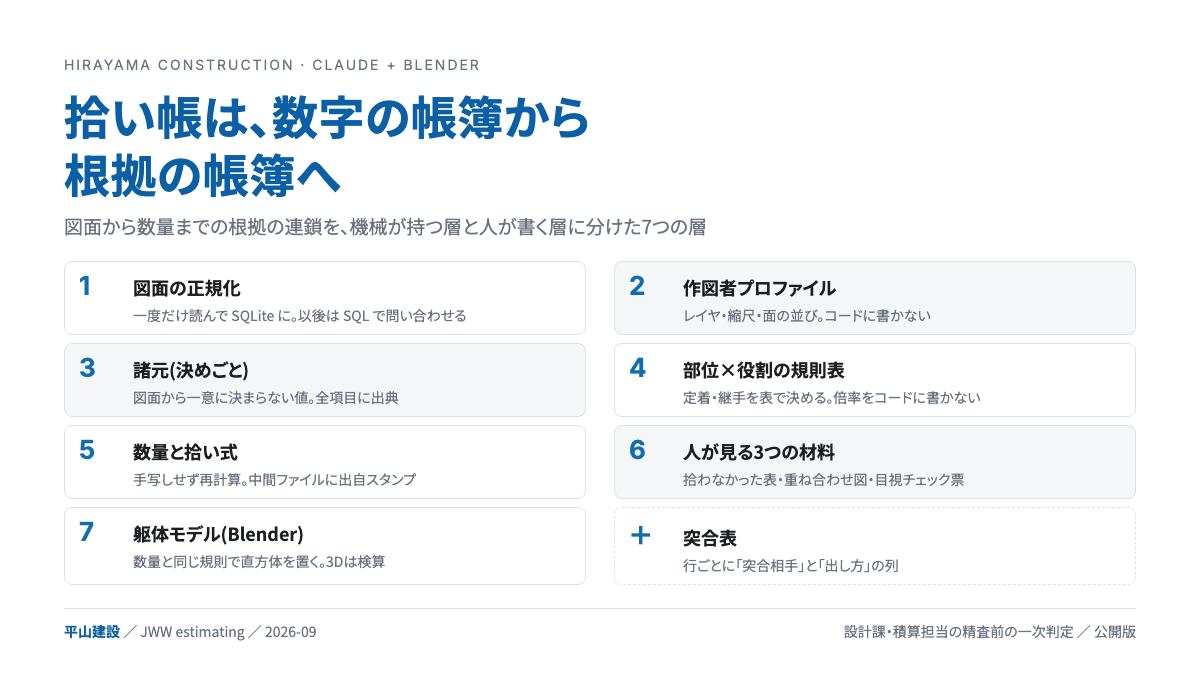
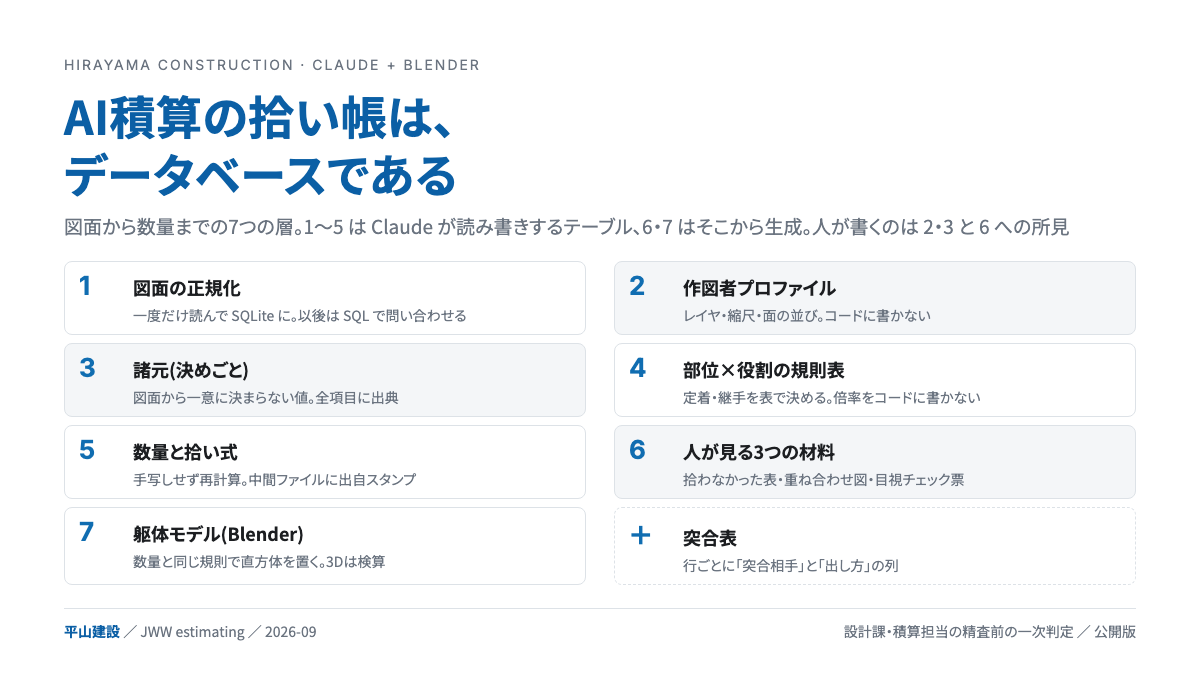
docs(jww-estimating): 拾い帳はデータベースである — DB の定義(4条件)・テーブルは5層・正本と派生物・積算アプリは製品名なし・ラーメンRC鉄筋 第1便・本数109

Changed region(s): [[0.0308, 0.1244, 0.8942, 0.3733]]

diff --git a/docs/jww-estimating/2026-09-hiroicho/index.html b/docs/jww-estimating/2026-09-hiroicho/index.html
@@ -1,5 +1,5 @@
 <!doctype html><html lang="ja"><head><meta charset="utf-8"><meta name="viewport" content="width=device-width,initial-scale=1">
-<title>拾い帳は、数字の帳簿から根拠の帳簿へ ─ Claude と Blender の時代の拾い帳(公開版)</title>
+<title>AI積算の拾い帳は、データベースである ─ 図面から数量までを Claude が読み書きする形にした(公開版)</title>
 <link rel="stylesheet" href="https://fonts.googleapis.com/css2?family=Noto+Sans+JP:wght@400;700&family=Inter:wght@400;700&display=swap">
 <style>
 :root{--brand:#106DB1;--brand-deep:#0B5FA5;--brand-light:#4689CD;--green:#0B9455;--red:#D95A5F;--ink:#1C1E21;--ink-muted:#6B7480;--rule:#DDE2E7;--surface:#FFFFFF;--surface-alt:#F4F6F8;--num:Inter,Arial,Helvetica,sans-serif}
@@ -55,8 +55,8 @@ ol.principles span{color:var(--ink-muted);font-size:14.5px}
 </style></head><body><main>
 
 <p class="eyebrow">Hirayama Construction · JWW estimating · 2026-09</p>
-<h1>拾い帳は、数字の帳簿から根拠の帳簿へ</h1>
-<p class="lead">Claude と Blender の時代の拾い帳。3週間で自社8案件の図面から数量を機械で拾い、7案件を実績と突き合わせた到達点と、そこから見えた「拾い帳はこう変わる」の整理です。公開版(2026-09-29 時点)。</p>
+<h1>AI積算の拾い帳は、データベースである</h1>
+<p class="lead">Excel の拾い帳と並べて、データベースの形で作り直したら、Claude が図面を読み、数量を出し、実績と突き合わせ、拾わなかったものを人に見せるところまで通りました。3週間・自社8案件の到達点と、図面から数量までを AI が読み書きする形(7つの層)の整理です。公開版(2026-09-29 時点)。</p>
 
 <dl class="kpi">
   <div><dt>図面から拾った案件</dt><dd>8<span> 件 ／ うち実績と突合 7</span></dd></div>
@@ -66,9 +66,9 @@ ol.principles span{color:var(--ink-muted);font-size:14.5px}
 </dl>
 <p class="src">差率 = (図面拾い − 実績) ÷ 実績。マイナスは図面拾いが実績より少ないこと。実績は工事精算書・契約内訳・構造事務所の設計数量が混ざります。新築RC造で、文字と線が座標付きで生きている図面(JWW・ベクタPDF)がある場合の値です。</p>
 
-<h2><span class="num">01</span>いまの拾い帳は、よくできている。だから足りないものがはっきりする</h2>
+<h2><span class="num">01</span>いまの拾い帳は、よくできている。足りないのは AI が読み書きする入口</h2>
 <p>当社の拾い帳は Excel の汎用シートです。14階まで対応し、打設階ごとの行に「部位 × 符号 × 寸法 × 本数」を人が図面を見て打つ。コンクリート・型枠・鉄筋が1枚から出て、見積依頼書の数量はすべてこの1枚に戻れる。<strong>根拠が1枚にあることが、この帳簿の価値です。</strong>無いのは根拠の出所です。どの図面のどの版から、誰のどの決めごとで、その行が出たのかが残りません。</p>
-<p>3週間、同じ図面をプログラムで拾い、この帳簿や構造事務所の集計表と突き合わせて分かったのは、足りないのは精度ではなく次の4つだということでした。</p>
+<p>積算専用のアプリケーションも多くあり、拾い・集計・内訳書までよくできています。それらも当社の Excel と同じく<strong>人が図面を読んで打つ前提</strong>の道具で、AI が読み書きする入口(形の決まったスキーマ、テキストで版管理できる形、行ごとの出典)を前提には作られていない、というのが当社が触った範囲での実感です。3週間、同じ図面をプログラムで拾って突き合わせて分かった「当社の拾い帳に足りないもの」は次の4つで、どれも精度ではありません。</p>
 <div class="grid2">
   <div class="card"><h4>図面を見て打つ</h4><ul><li>同じ図面を、拾うたびに読み直す</li><li>作図者が変わると縮尺・レイヤの割当・面の並びが変わる。5系統で1つも一致しなかった</li></ul></div>
   <div class="card"><h4>決めごとが暗黙</h4><ul><li>端部補強筋の1本の長さ、受筋の兼用、壁梁の内法。構造図のリストと伏図だけからは一意に決まらず、標準配筋図と積算の決めごとが要る値が、拾う人の中にある</li><li>差の原因を推測すると外れる。5つ立てた仮説のうち4つが積算担当の回答で否定された</li></ul></div>
@@ -76,16 +76,16 @@ ol.principles span{color:var(--ink-muted);font-size:14.5px}
   <div class="card"><h4>拾わなかったものが見えない</h4><ul><li>合計が合っていてもモデルは正しいとは限らない。フィルタが黙って捨てた壁237本は差率に出ない</li><li>径別の合計は部位間で打ち消し合う</li></ul></div>
 </div>
 
-<h2><span class="num">02</span>2026年の拾い帳 ─ 7つの層</h2>
-<p>拾い帳を「数量の表」ではなく「<strong>図面から数量までの根拠の連鎖</strong>」として持ち直しました。機械が持つ層と、人が書く層を分けています。</p>
+<h2><span class="num">02</span>2026年の拾い帳 ─ 7つの層、うち5つがテーブル</h2>
+<p>拾い帳を「数量の表」ではなく「<strong>図面から数量までの根拠の連鎖</strong>」として持ち直しました。1〜5 の層は SQLite と JSON のテーブルで、Claude が読み書きします。6(人が見る材料)と 7(モデル)はそこから生成されます。人が書くのは 2・3 と、6 への所見だけです。正本(原図・プロファイル・諸元・規則表・数量の JSON)は git で版管理し、SQLite と .blend は正本から作り直せる派生物として追跡しません。</p>
 <div class="layers">
-  <div class="layer"><span class="no">1</span><span class="name">図面の正規化</span><span class="what">JWW・ベクタPDF・ST-Bridge を一度だけ読んで SQLite に入れる。以後は図面を開かず SQL で問い合わせる。sha が変われば取り直す</span><span class="who">機械</span></div>
-  <div class="layer human"><span class="no">2</span><span class="name">作図者プロファイル</span><span class="what">レイヤの役割・縮尺・面の並びを JSON に。コードに書かない。「なぜその値か」を注に残す</span><span class="who">人(初見の作図者ごとに1本)</span></div>
-  <div class="layer human"><span class="no">3</span><span class="name">諸元(決めごと)</span><span class="what">階高・SL・Fc・床面積・基礎・杭と、リストと伏図だけでは決まらない決めごと(標準配筋図・積算の慣行)。全項目に出典。既定は「図面どおり」</span><span class="who">人</span></div>
-  <div class="layer"><span class="no">4</span><span class="name">部位×役割の規則表</span><span class="what">鉄筋の素の長さ・定着・継手を「部位 × 役割」で決める。倍率をコードに書かない。素の長さはコンクリートの設計寸法</span><span class="who">機械(表は人が育てる)</span></div>
-  <div class="layer"><span class="no">5</span><span class="name">数量と拾い式</span><span class="what">断面辞書・部材配置・数量を JSON で。突合表の値は手写しせず「拾い式」で再計算する。中間ファイルに出自スタンプ</span><span class="who">機械</span></div>
-  <div class="layer human"><span class="no">6</span><span class="name">人が見る3つの材料</span><span class="what">拾わなかった表(図面にあって数量に入れなかったもの)・重ね合わせ図(軸組図・伏図 × モデル)・目視チェック票</span><span class="who">人(設計課・積算担当)</span></div>
-  <div class="layer"><span class="no">7</span><span class="name">躯体モデル(Blender)</span><span class="what">数量と同じ規則で直方体を置く。3Dは絵ではなく検算。そのまま施工段階4D・IFC へ</span><span class="who">機械</span></div>
+  <div class="layer"><span class="no">1</span><span class="name">図面の正規化</span><span class="what">SQLite ／ JWW・ベクタPDF・ST-Bridge を一度だけ読んで SQLite に入れる。以後は図面を開かず SQL で問い合わせる。sha が変われば取り直す</span><span class="who">機械</span></div>
+  <div class="layer human"><span class="no">2</span><span class="name">作図者プロファイル</span><span class="what">JSON ／ レイヤの役割・縮尺・面の並びを JSON に。コードに書かない。「なぜその値か」を注に残す</span><span class="who">人(初見の作図者ごとに1本)</span></div>
+  <div class="layer human"><span class="no">3</span><span class="name">諸元(決めごと)</span><span class="what">JSON ／ 階高・SL・Fc・床面積・基礎・杭と、リストと伏図だけでは決まらない決めごと(標準配筋図・積算の慣行)。全項目に出典。既定は「図面どおり」</span><span class="who">人</span></div>
+  <div class="layer"><span class="no">4</span><span class="name">部位×役割の規則表</span><span class="what">表(手順書と同じものを実行形で) ／ 鉄筋の素の長さ・定着・継手を「部位 × 役割」で決める。倍率をコードに書かない。素の長さはコンクリートの設計寸法</span><span class="who">機械(表は人が育てる)</span></div>
+  <div class="layer"><span class="no">5</span><span class="name">数量と拾い式</span><span class="what">JSON ／ 断面辞書・部材配置・数量を JSON で。突合表の値は手写しせず「拾い式」で再計算する。中間ファイルに出自スタンプ</span><span class="who">機械</span></div>
+  <div class="layer human"><span class="no">6</span><span class="name">人が見る3つの材料</span><span class="what">Markdown・図・A3の紙 ／ 拾わなかった表(図面にあって数量に入れなかったもの)・重ね合わせ図(軸組図・伏図 × モデル)・目視チェック票</span><span class="who">人(設計課・積算担当)</span></div>
+  <div class="layer"><span class="no">7</span><span class="name">躯体モデル(Blender)</span><span class="what">.blend・IFC ／ 数量と同じ規則で直方体を置く。3Dは絵ではなく検算。そのまま施工段階4D・IFC へ</span><span class="who">機械</span></div>
 </div>
 <p class="src">突合表は行ごとに「突合相手」(工事精算書・型枠見積依頼書・構造事務所の設計数量…)と「出し方」(機械抽出・図面から算出・目視・逆算・配分)の列を持ち、図面から出た値か実績から逆算した値かが必ず分かるようにしています。</p>
 
@@ -113,7 +113,16 @@ ol.principles span{color:var(--ink-muted);font-size:14.5px}
 <figcaption>図面から検算までの1本の流れ。途中の結果はすべてファイルに落ちるので、どの段階からでもやり直せる</figcaption>
 </figure>
 
-<h2><span class="num">03</span>5つの原則</h2>
+<h2><span class="num">03</span>なぜデータベースか ─ Claude にとっての拾い帳</h2>
+<p>ここでいうデータベースは製品の名前ではなく、置き方の条件です。<strong>(1) 形が決まっている(スキーマ)、(2) 問い合わせで引ける、(3) 行ごとに出典がある、(4) 版がある。</strong>この4つを満たせば SQLite でも JSON でも表で、満たさなければ Excel の1枚もただのファイルです。派生物(SQLite・.blend)を捨てても正本から作り直せるのは、正本がこの形で置かれている証拠です。</p>
+<div class="grid2">
+  <div class="card"><h4>読める</h4><ul><li>図面は一度だけ SQLite に入り、以後は SQL で問い合わせる。Claude は図面を開かない</li><li>諸元・規則・数量が JSON なので、どの値がどこから来たかを辿れる</li></ul></div>
+  <div class="card"><h4>書ける</h4><ul><li>数量・突合表・拾わなかった表は生成物。人が書くのはプロファイルと諸元だけ</li><li>突合表の値は手写しせず「拾い式」で再計算する。手写しは古くなる</li></ul></div>
+  <div class="card"><h4>直せる</h4><ul><li>規則は部位×役割の表。表を直せば次の案件から効く</li><li>すべて git で版管理され、出自スタンプが「誰が・何から・いつ」を刻む</li></ul></div>
+  <div class="card"><h4>疑える</h4><ul><li>拾わなかった表と3Dの重ね合わせを人が見る。合っているかではなく、無いものは何かを問う</li><li>差率ではなく「行の状態」(拾えて合った／差が大きい／確かめられない／未算出)で到達度を測る</li></ul></div>
+</div>
+
+<h2><span class="num">04</span>5つの原則</h2>
 <ol class="principles">
   <li><div><b>図面は一度だけ読む</b><span>読み直すたびに縮尺や登録を考え直すのが事故のもとだった。正規化して SQL で引く。正本は原図、DB は派生物</span></div></li>
   <li><div><b>形状は機械、決めごとは人</b><span>形状は図面から一意に取れる。定着の取り方や受筋の兼用は取れない。人が書く値は1つの JSON に集め、全項目に出典を付ける</span></div></li>
@@ -122,7 +131,7 @@ ol.principles span{color:var(--ink-muted);font-size:14.5px}
   <li><div><b>人が見るのは拾った表ではなく、拾わなかった表</b><span>合計は打ち消し合う。図面にあって数量に入れなかったものを並べ、3Dモデルを図面に重ね、設計と積算が同じ紙を見る</span></div></li>
 </ol>
 
-<h2><span class="num">04</span>Blender の役割 ─ 3Dは絵ではなく検算</h2>
+<h2><span class="num">05</span>Blender の役割 ─ 3Dは絵ではなく検算</h2>
 <p>数量を出す関数と同じ規則で、壁・床板・基礎梁・フーチング・パラペットを直方体として置きます。そのモデルを軸組図・立面・断面・伏図に重ねると、数量の表を見ていても気づけない欠落が見えます。壁だけ原点を引き忘れて建物の外へ飛び散っていた、屋上パラペットが丸ごと無かった、階の割当から漏れた壁が237本あった。どれも合計の差率には出ませんでした。</p>
 <div class="grid2">
   <figure><img src="../2026-09-sachimachi/img/02-bird.jpg" alt="躯体モデルの鳥瞰"><figcaption>数量と同じ規則で置いた直方体(壁式RC 5階の例)</figcaption></figure>
@@ -130,7 +139,7 @@ ol.principles span{color:var(--ink-muted);font-size:14.5px}
 </div>
 <p>同じ .blend から、段階別4D(仮設物込みのアニメーション、ターンテーブル、工程表に尺を合わせた説明動画)と IFC(躯体の直方体のみ)へ書き出せます。4D まで実走したのはまだ1案件です。<strong>拾い帳の一番下の層が3Dモデルになれば、積算と施工計画が同じ根拠を共有できます。</strong></p>
 
-<h2><span class="num">05</span>どれだけ合ったか</h2>
+<h2><span class="num">06</span>どれだけ合ったか</h2>
 <table>
 <caption>図面拾いと実績数量の差 ／ 単位：% ／ 2026-09-27 時点の値 ／ マイナスは図面拾いが実績より少ない ／ 出典: 社内の突合表</caption>
 <thead><tr><th>案件</th><th>入口</th><th>突合相手</th><th class="n">コンクリート</th><th class="n">型枠</th><th class="n">鉄筋</th></tr></thead>
@@ -141,18 +150,18 @@ ol.principles span{color:var(--ink-muted);font-size:14.5px}
 <tr><td>壁式RC 4階・約2,300 ㎡(船橋市)</td><td>構造図JWW</td><td>構造事務所の設計数量</td><td class="n ok">−7.2</td><td class="n ok">−1.4</td><td class="n ok">−7.4</td></tr>
 <tr><td>壁式RC 4階・約2,000 ㎡(船橋市)</td><td>構造図PDFのみ(実績を見ずに拾った)</td><td>積算ソフトの集計表(鉄筋のみ)</td><td class="n na">—</td><td class="n na">—</td><td class="n ok">−6.0</td></tr>
 <tr><td>壁式RC 3階・約500 ㎡(成田市)</td><td>構造図PDF(目視転記)</td><td>契約内訳(全工種)</td><td class="n ok">−3.9</td><td class="n warn">定義差</td><td class="n mid">−8.5<br><span class="na" style="font-weight:400;font-size:12px">参考値(段が違う)</span></td></tr>
-<tr><td>ラーメンRC 6階・約1,500 ㎡(足立区)</td><td>構造図JWW</td><td>契約数量</td><td class="n warn">−12.5</td><td class="n mid">−9.6</td><td class="n na">未算出</td></tr>
+<tr><td>ラーメンRC 6階・約1,500 ㎡(足立区)</td><td>構造図JWW</td><td>契約数量</td><td class="n warn">−12.5</td><td class="n mid">−9.6</td><td class="n mid">−17.8<br><span class="na" style="font-weight:400;font-size:12px">第1便(09-28)・要精査</span></td></tr>
 </tbody></table>
-<p class="src">鉄筋は「定着・継手込み、材料ロス前」の段で部位×径に並べた計(目視転記の案件のみ加工組立の対象数量比で段が違うため参考値)。青は ±10% 以内(概算・予算枠の用途での線)、太字は閾値の近くで要精査。コンクリート・型枠も初見は −0.8〜−11.3% で、積算担当の回答と図面の再読で直した後の値です。前の記事で公開済みの案件を含みます。型枠の「定義差」は実績側にスラブ小口・開口見込・雑型枠が含まれる差で、基礎を同じ拾い方にそろえると −2.4%。ラーメンRCのコンクリートは腰壁・垂れ壁など未計上部位の積み上げで差の6割が説明でき、残り約5%は未特定。鉄筋は3週間前の −12〜−29% から、率で埋めずに部位ごとに直した値です。</p>
+<p class="src">鉄筋は「定着・継手込み、材料ロス前」の段で部位×径に並べた計(目視転記の案件のみ加工組立の対象数量比で段が違うため参考値)。青は ±10% 以内(概算・予算枠の用途での線)、太字は閾値の近くで要精査。コンクリート・型枠も初見は −0.8〜−11.3% で、積算担当の回答と図面の再読で直した後の値です。前の記事で公開済みの案件を含みます。型枠の「定義差」は実績側にスラブ小口・開口見込・雑型枠が含まれる差で、基礎を同じ拾い方にそろえると −2.4%。ラーメンRCのコンクリートは腰壁・垂れ壁など未計上部位の積み上げで差の6割が説明でき、残り約5%は未特定。ラーメンRCの鉄筋は 09-28 の第1便で、基礎・階段・雑が未計上のまま(表の他の値は 09-27 時点)。鉄筋は3週間前の −12〜−29% から、率で埋めずに部位ごとに直した値です。</p>
 
 <div class="key">
   <p><strong>鉄筋は「部位×径」で見ないと直す場所が分かりません。</strong>内訳書の合計と −7.8% で合って見えていた案件を、実績側を同じ段(ロス前・部位別)にそろえ直して部位×径に分けると −12.3% で、基礎 −77%・壁 −22% のマスがありました。部位ごとに直して −6.3%、±5% 以内のマスは 2 → 7 に増えました。合計だけを見ていたら直す場所は分からなかったはずです。</p>
 </div>
 
-<h2><span class="num">06</span>道具立て</h2>
+<h2><span class="num">07</span>道具立て</h2>
 <dl class="kpi">
   <div><dt>手順書</dt><dd>12<span> 本 ／ 約 9,000 行</span></dd></div>
-  <div><dt>スクリプト(Python)</dt><dd>116<span> 本 ／ 約 34,000 行</span></dd></div>
+  <div><dt>スクリプト(Python)</dt><dd>109<span> 本 ／ 約 32,000 行(使わなくなった6本は退役)</span></dd></div>
   <div><dt>作図者プロファイル</dt><dd>5<span> 本</span></dd></div>
   <div><dt>積算担当への問い</dt><dd>29<span> 問 未決</span></dd></div>
 </dl>
@@ -162,20 +171,20 @@ ol.principles span{color:var(--ink-muted);font-size:14.5px}
 <tbody>
 <tr><td>0 素性・正規化</td><td class="n">7</td><td>図面を一度だけ読んで SQL で問い合わせる。作図者ごとの癖はここで吸収</td></tr>
 <tr><td>1 抽出(構造図・意匠図)</td><td class="n">21</td><td>リスト図の表 → 断面辞書、伏図の符号と線 → 部材配置、建具表・室・文字の数</td></tr>
-<tr><td>2 数量</td><td class="n">22</td><td>コン・型枠・鉄筋(規則は部位×役割の表)、仮設・仕上・外構</td></tr>
-<tr><td>3 突合</td><td class="n">19</td><td>実績(正解データ)を読み、段と部位を揃えて並べる</td></tr>
+<tr><td>2 数量</td><td class="n">21</td><td>コン・型枠・鉄筋(規則は部位×役割の表)、仮設・仕上・外構</td></tr>
+<tr><td>3 突合</td><td class="n">16</td><td>実績(正解データ)を読み、段と部位を揃えて並べる</td></tr>
 <tr><td>4 検算(人が見る材料)</td><td class="n">9</td><td>拾わなかった表・重ね合わせ図・チェック図・目視チェック票</td></tr>
-<tr><td>5 モデル(Blender)</td><td class="n">17</td><td>数量と同じ規則で躯体を立てる。IFC・OBJ・DXF の受け渡し</td></tr>
+<tr><td>5 モデル(Blender)</td><td class="n">16</td><td>数量と同じ規則で躯体を立てる。IFC・OBJ・DXF の受け渡し</td></tr>
 <tr><td>6 可視化・4D</td><td class="n">10</td><td>パース・ターンテーブル・段階別4D・SNS 向け動画</td></tr>
-<tr><td>7 配布</td><td class="n">9</td><td>数量内訳書・突合表・確認事項・HTML/PDF</td></tr>
+<tr><td>7 配布</td><td class="n">7</td><td>数量内訳書・突合表・確認事項・HTML/PDF</td></tr>
 </tbody></table>
 <p class="src">コードは Claude が書き、人はルールを決めて数字を疑います。手順書にルールを文章で書いてからコードに落とす往復。JWW の読み取り部分は <a href="https://github.com/hirakihirayama/soul/tree/main/tools/jww-reader">tools/jww-reader</a>(MIT)。</p>
 
-<h2><span class="num">07</span>まだできていないこと</h2>
+<h2><span class="num">08</span>まだできていないこと</h2>
 <ul>
   <li>内装の壁・天井(下地・ボード・クロスが別々の面積で拾われている。こちらは1つの壁面積を3工種に使い回している)</li>
   <li>鉄筋の残り(壁端部補強筋の1本の長さ、受筋の兼用、基礎梁主筋の連続区間。図面から一意に決まらない決めごと)</li>
-  <li>ラーメン構造の鉄筋、設備、スキャンPDF(OCRはしない)、施工計画で決まる数量(根切り・床付けの範囲)</li>
+  <li>ラーメン構造の鉄筋(第1便 −17.8%。基礎・階段・雑が未計上)、設備、スキャンPDF(OCRはしない)、施工計画で決まる数量(根切り・床付けの範囲)</li>
 </ul>
 
 <p class="note">設計課の法規精査・積算担当の確認前の一次判定です。数字は概算であり、建物の性能や適法性を示すものではありません。公開版では案件名・地番・実績数量の絶対値・取引先名・担当者名を除き、差率と件数だけを載せています。前の記事: <a href="../2026-09-sachimachi/">JWW図面から躯体を立てて、二つの正解に重ねた</a> ／ note「<a href="https://note.com/hidekihirayama/n/nd042cf91a2a5">BIMがなくても積算はできました</a>」 ─ 平山建設株式会社</p>

diff --git a/docs/jww-estimating/2026-09-hiroicho/make_cards.py b/docs/jww-estimating/2026-09-hiroicho/make_cards.py
@@ -41,8 +41,8 @@ FOOT = '<div class="foot"><span><b>平山建設</b> ／ JWW estimating ／ 2026-
 CARDS = {
  '01-title': f'''{CSS}<div class="card">
 <p class="eyebrow">Hirayama Construction · Claude + Blender</p>
-<h1>拾い帳は、数字の帳簿から<br>根拠の帳簿へ</h1>
-<p class="sub">図面から数量までの根拠の連鎖を、機械が持つ層と人が書く層に分けた7つの層</p>
+<h1>AI積算の拾い帳は、<br>データベースである</h1>
+<p class="sub">図面から数量までの7つの層。1〜5 は Claude が読み書きするテーブル、6・7 はそこから生成。人が書くのは 2・3 と 6 への所見</p>
 <div class="layers">
 <div class="layer"><span class="n">1</span><div><b>図面の正規化</b><span>一度だけ読んで SQLite に。以後は SQL で問い合わせる</span></div></div>
 <div class="layer h"><span class="n">2</span><div><b>作図者プロファイル</b><span>レイヤ・縮尺・面の並び。コードに書かない</span></div></div>
@@ -87,13 +87,13 @@ CARDS = {
 
  '04-before-after': f'''{CSS}<div class="card">
 <p class="eyebrow">Before / After</p>
-<h1>いまの拾い帳と、2026年の拾い帳</h1>
+<h1>人が打つ拾い帳と、AI が読み書きする拾い帳</h1>
 <div class="ba">
-<div class="col"><h3>Excel の汎用シート</h3><ul>
-<li>打設階 × 部位 × 符号 × 寸法 × 本数を人が打つ</li><li>3工種が1枚から出る。根拠が1枚にある</li><li>図面は拾うたびに読み直す</li><li>決めごとは拾う人の中にある</li><li>版が無い。拾わなかったものは見えない</li></ul></div>
+<div class="col"><h3>Excel の拾い帳(人が図面を見て打つ)</h3><ul>
+<li>人が図面を読んで、部位 × 符号 × 寸法 × 本数を打つ</li><li>3工種が1枚から出る。根拠が1枚にある</li><li>図面は拾うたびに読み直す</li><li>決めごとは拾う人の中にある</li><li>AI が読み書きする入口(スキーマ・版・出典)は、当社の使い方では見つからなかった</li></ul></div>
 <div class="arrow">→</div>
-<div class="col after"><h3>根拠の連鎖(7つの層)</h3><ul>
-<li>図面を一度だけ読み、SQL で問い合わせる</li><li>形状は機械が拾い、決めごとは人が書く(出典つき)</li><li>規則は部位×役割の表。倍率をコードに書かない</li><li>拾わなかった表と3Dの重ね合わせを人が見る</li><li>同じモデルが施工4Dと IFC へ流れる</li></ul></div>
+<div class="col after"><h3>データベース(7つの層)</h3><ul>
+<li>図面を一度だけ SQLite に入れ、SQL で問い合わせる</li><li>形状は機械が拾い、決めごとは人が書く(出典つき)</li><li>規則は部位×役割の表。倍率をコードに書かない</li><li>拾わなかった表と3Dの重ね合わせを人が見る</li><li>同じモデルが施工4Dと IFC へ流れる</li></ul></div>
 </div>{FOOT}</div>''',
 }
 

diff --git a/docs/jww-estimating/2026-09-hiroicho/README.md b/docs/jww-estimating/2026-09-hiroicho/README.md
@@ -1,7 +1,7 @@
-# 拾い帳は、数字の帳簿から根拠の帳簿へ ─ Claude と Blender の時代の拾い帳(公開版)
+# AI積算の拾い帳は、データベースである ─ 図面から数量までを Claude が読み書きする形にした(公開版)
 
-3週間で自社8案件の図面(JWW・ベクタPDF・ST-Bridge)から数量を機械で拾い、7案件を実績と突き合わせた到達点と、
-そこから見えた「拾い帳はこう変わる」の整理です。2026-09-29 時点。
+拾い帳を Excel の表からデータベース(SQLite・JSON・Markdown)に置き直し、Claude が図面を読み、数量を出し、実績と突き合わせ、
+拾わなかったものを人に見せるところまで通した到達点(3週間・自社8案件)と、その形(7つの層)の整理です。2026-09-29 時点。
 前の記事「[JWW図面から躯体を立てて、二つの正解に重ねた](../2026-09-sachimachi/)」、
 note「[BIMがなくても積算はできました](https://note.com/hidekihirayama/n/nd042cf91a2a5)」の続きにあたります。
 
@@ -9,10 +9,10 @@ note「[BIMがなくても積算はできました](https://note.com/hidekihiray
 |---|---|
 | [index.html](index.html) | 本文(GitHub Pages)。7つの層・5つの原則・Blender の役割・案件×工種の差率・道具立て |
 | [img/05-overlay.png](img/05-overlay.png) | X 用カード: 3Dは絵ではなく検算(軸組図との重ね合わせ) |
-| [img/01-title.png](img/01-title.png) | X 用カード: 7つの層 |
+| [img/01-title.png](img/01-title.png) | X 用カード: 拾い帳はデータベース(7つの層) |
 | [img/02-results.png](img/02-results.png) | X 用カード: 到達点(差率の幅) |
 | [img/03-principles.png](img/03-principles.png) | X 用カード: 5つの原則 |
-| [img/04-before-after.png](img/04-before-after.png) | X 用カード: いまの拾い帳と 2026 年の拾い帳 |
+| [img/04-before-after.png](img/04-before-after.png) | X 用カード: 人が打つ拾い帳と、AI が読み書きする拾い帳 |
 
 ## 公開版で除いたもの
 
@@ -21,4 +21,4 @@ note「[BIMがなくても積算はできました](https://note.com/hidekihiray
 ## この結果の位置づけ
 
 設計課の法規精査・積算担当の確認前の一次判定です。数字は概算であり、建物の性能や適法性を示すものではありません。
-JWW の読み取り部分は [tools/jww-reader](https://github.com/hirakihirayama/soul/tree/main/tools/jww-reader)(MIT)。SQL 化・数量・照合・モデル化のツール(116本)は社内リポジトリで育てています。
+JWW の読み取り部分は [tools/jww-reader](https://github.com/hirakihirayama/soul/tree/main/tools/jww-reader)(MIT)。SQL 化・数量・照合・モデル化のツール(109本)は社内リポジトリで育てています。
